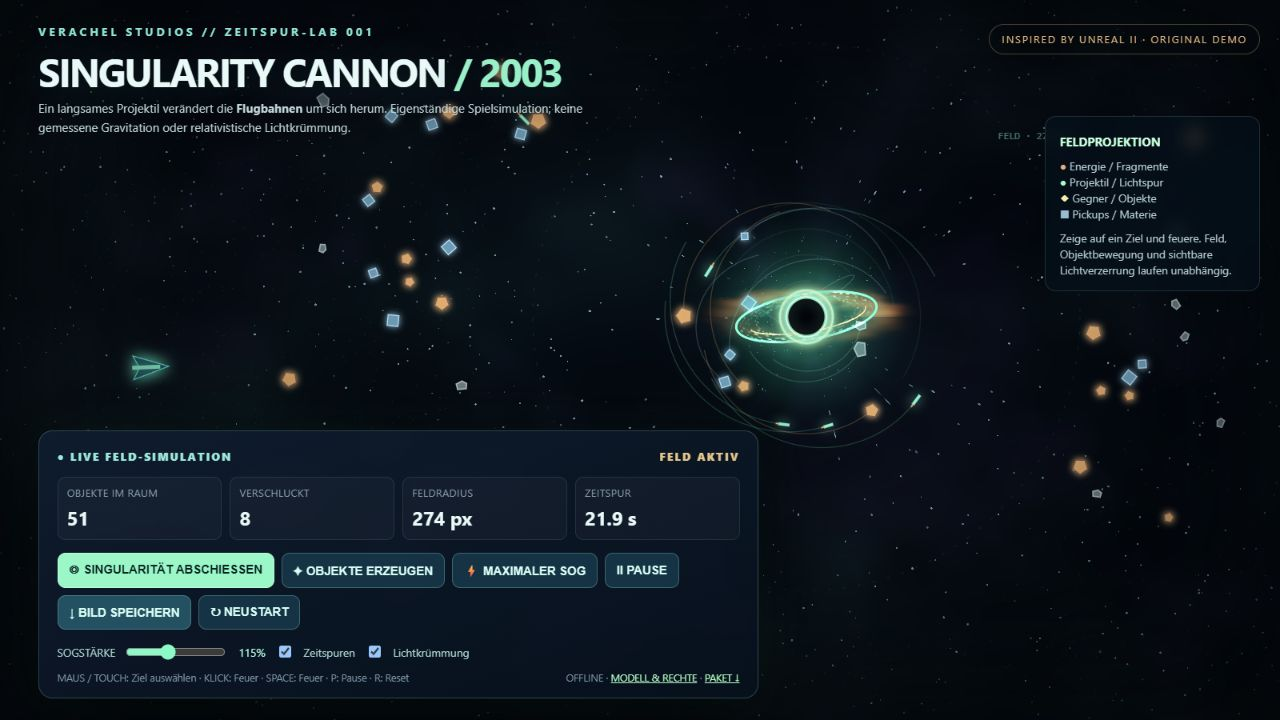
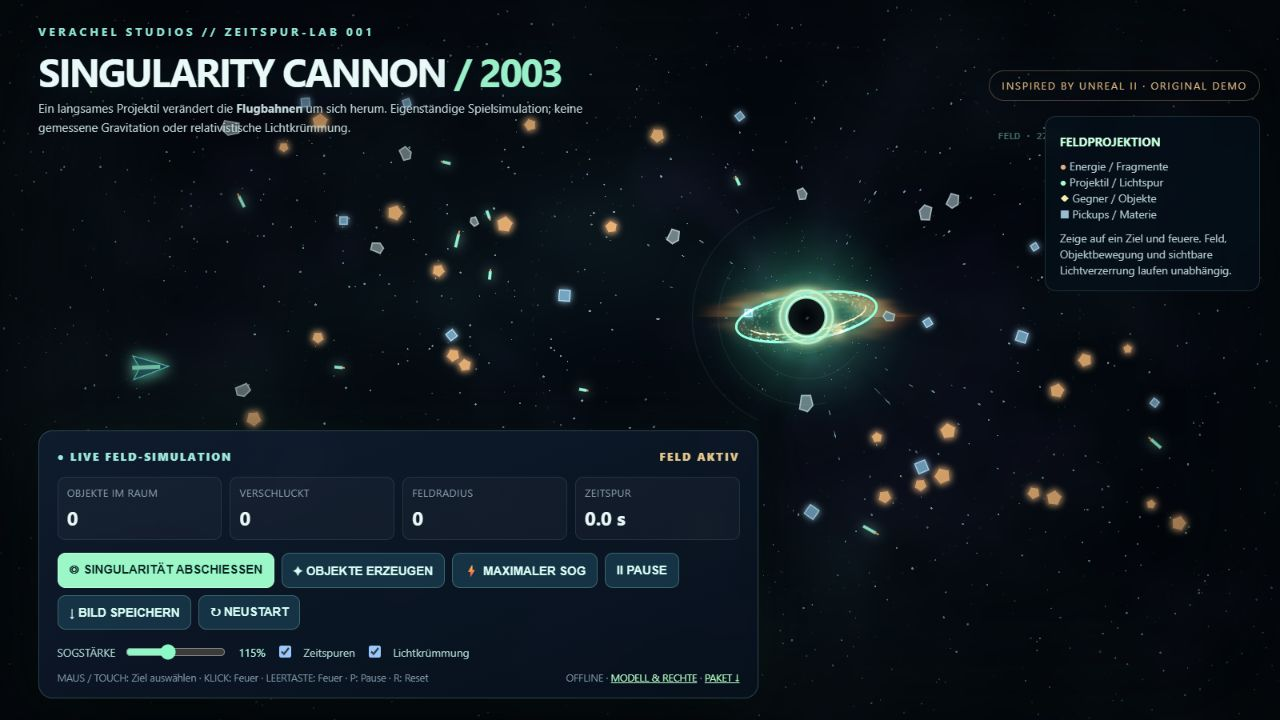
Keep Scarlet navigation clear on Singularity demo

diff --git a/forschung/singularity-cannon/index.html b/forschung/singularity-cannon/index.html
@@ -18,7 +18,7 @@ canvas{position:absolute;inset:0;width:100%;height:100%;touch-action:none}
 .eyebrow{font-size:11px;letter-spacing:.3em;text-transform:uppercase;color:#90e5d5;font-weight:700}
 h1{font-size:clamp(20px,3.2vw,39px);margin:6px 0 3px;letter-spacing:-.045em;text-shadow:0 3px 30px #091d23}
 .lead{font-size:12px;color:#c0d5d7;max-width:560px;line-height:1.55}
-.ref{font-size:10px;white-space:nowrap;letter-spacing:.16em;color:#e3b981;border:1px solid #e3b98150;border-radius:25px;padding:8px 12px}
+.ref{font-size:10px;white-space:nowrap;letter-spacing:.16em;color:#e3b981;border:1px solid #e3b98150;border-radius:25px;padding:8px 12px;margin-top:46px}
 .legend{position:absolute;right:20px;top:116px;max-width:215px;pointer-events:none;background:#04101bab;border:1px solid #75b7b733;backdrop-filter:blur(8px);border-radius:11px;padding:12px 14px}
 .legend p{font-size:11px;line-height:1.45;color:#bacfd4;margin:8px 0 0}.legend strong{font-size:12px;color:#c8ffdc}
 .hud{position:absolute;left:clamp(12px,3vw,40px);bottom:clamp(16px,3vh,35px);width:min(720px,calc(100vw - 26px));border-radius:14px;border:1px solid #9bd8d83d;background:linear-gradient(160deg,#101d30ec,#07101cee);box-shadow:0 20px 80px #000a,0 0 42px #3bd0a713;backdrop-filter:blur(15px);padding:17px 18px 14px}
@@ -79,7 +79,7 @@ input[type=range]{accent-color:#8cfac7;width:100px}
       <label><input type="checkbox" id="trails" checked> Zeitspuren</label>
       <label><input type="checkbox" id="distort" checked> Lichtkrümmung</label>
     </div>
-    <div class="footer"><span>MAUS / TOUCH: Ziel auswählen · KLICK: Feuer · SPACE: Feuer · P: Pause · R: Reset</span><span>OFFLINE · <a href="README.md" style="color:#b6ffc7">MODELL &amp; RECHTE</a> · <a href="HALVETH_SINGULARITY_CANNON_2026-10-10.zip" download style="color:#b6ffc7">PAKET ↓</a></span></div>
+    <div class="footer"><span>MAUS / TOUCH: Ziel auswählen · KLICK: Feuer · LEERTASTE: Feuer · P: Pause · R: Reset</span><span>OFFLINE · <a href="README.md" style="color:#b6ffc7">MODELL &amp; RECHTE</a> · <a href="HALVETH_SINGULARITY_CANNON_2026-10-10.zip" download style="color:#b6ffc7">PAKET ↓</a></span></div>
   </section>
 </main>
 <script>

diff --git a/forschung/singularity-cannon/README.md b/forschung/singularity-cannon/README.md
@@ -22,6 +22,7 @@ Die Lichtverzerrung, die Akkretionsscheibe und der Ring sind künstlerische WebG
 - Tastenkürzel greifen nicht in fokussierte Schaltflächen, Links oder Formelemente ein.
 - „Neustart“ hebt auch einen vorherigen Pausenzustand auf.
 - Der PNG-Export nutzt einen lokalen Blob-Download und meldet den gestarteten Export sichtbar.
+- Die öffentliche Scarlet-Navigation bleibt neben dem Referenzlabel frei; die Tastaturhilfe verwendet „Leertaste“, damit die globale Sprachlogik sie nicht als anderes Wort ersetzt.
 - Das Referenzmodul prüft numerische Eingaben und dokumentiert seine Mutationsgrenze.
 
 Diese Änderungen begrenzen einige Last- und Bedienungsfehler. Sie sind keine hardwareübergreifende Leistungs- oder Barrierefreiheitszertifizierung.
